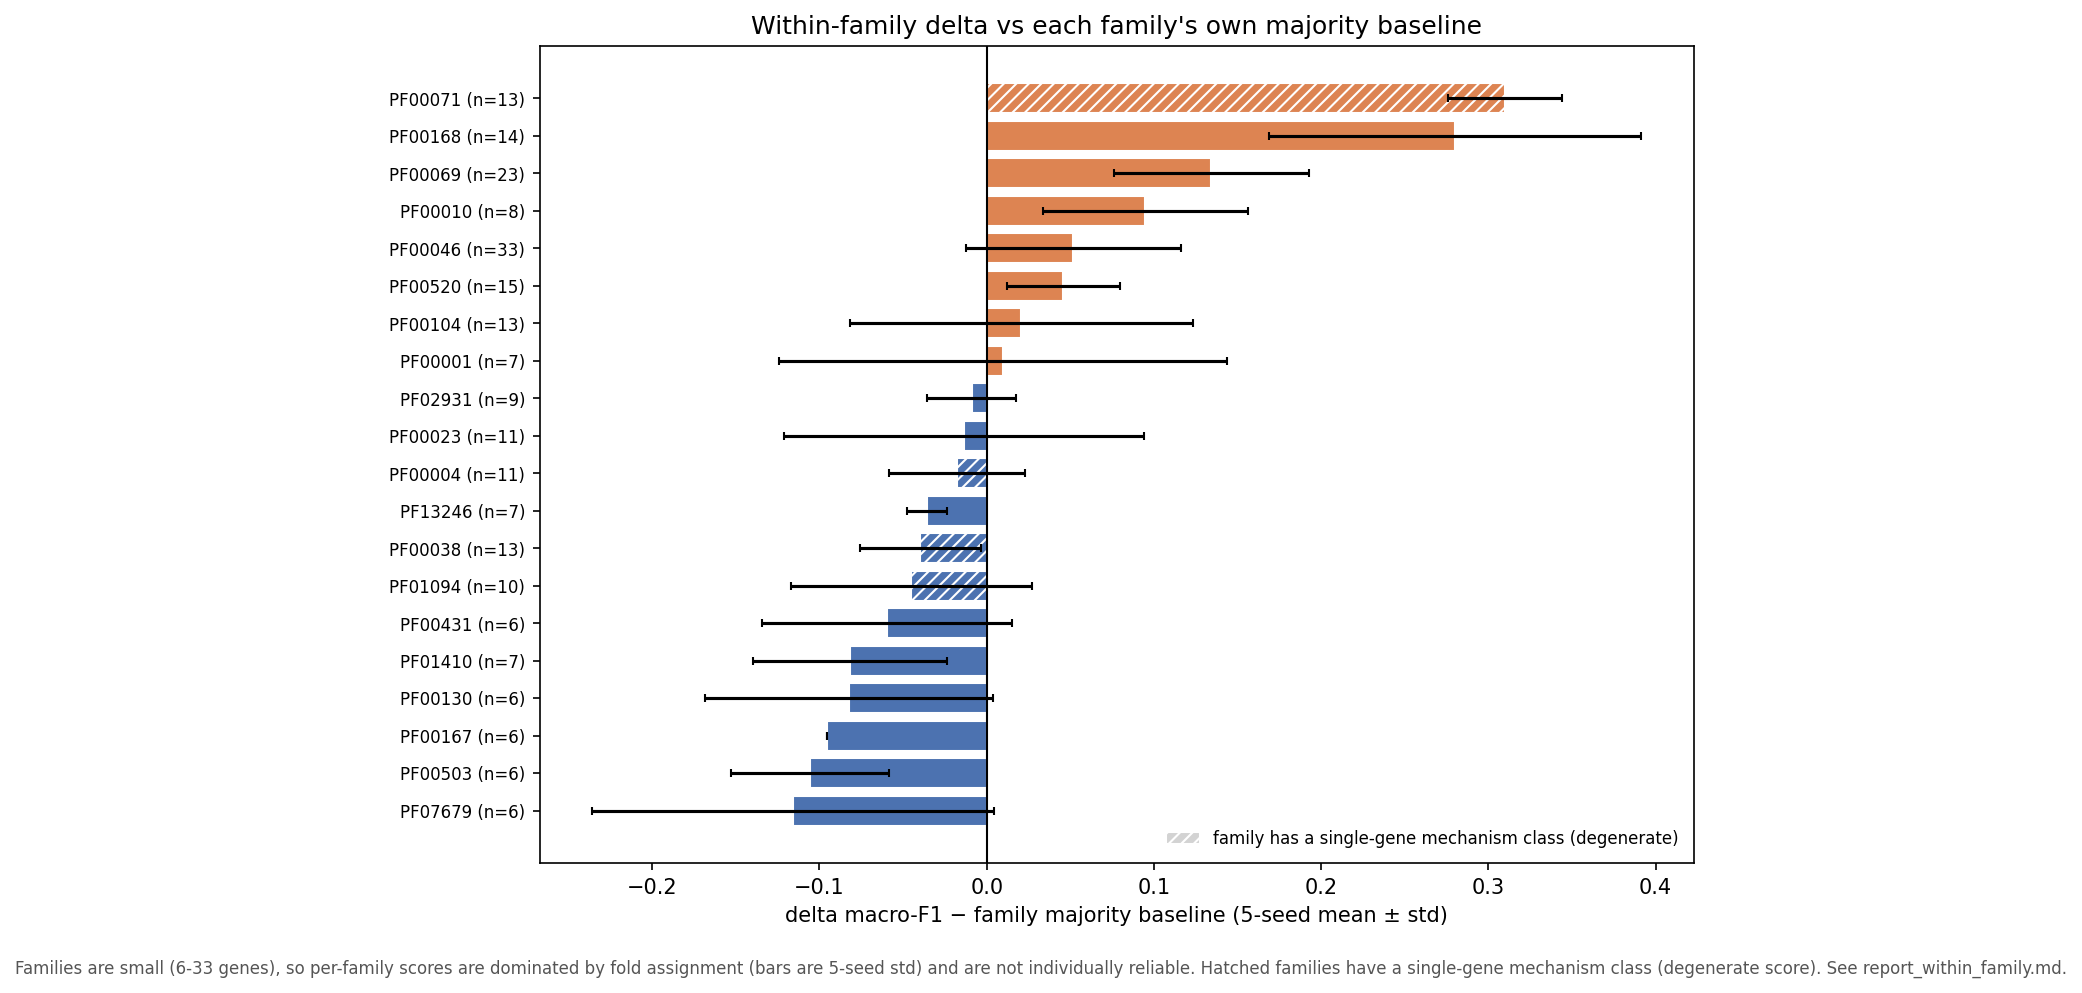
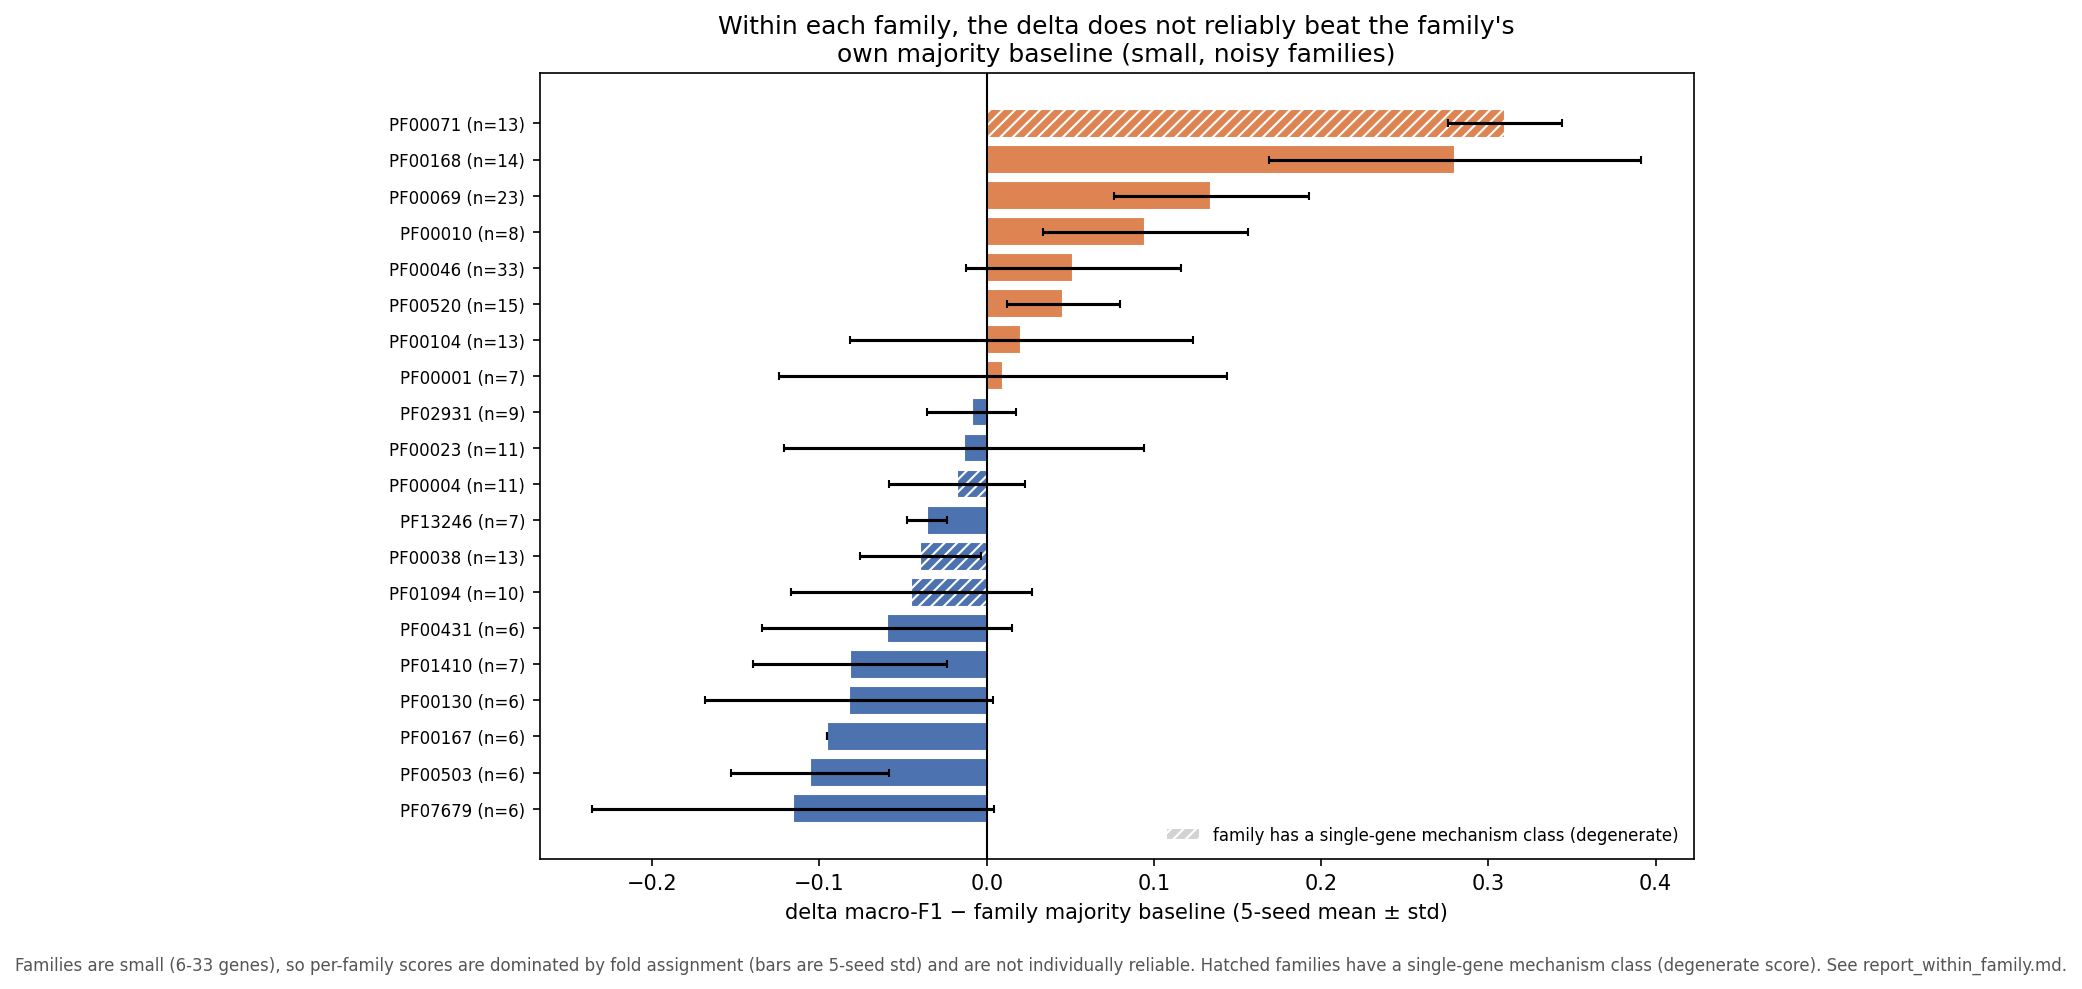
Commit all geometry/report working changes

diff --git a/src/esm2_mech/experiments/mechanism/make_figures.py b/src/esm2_mech/experiments/mechanism/make_figures.py
@@ -56,6 +56,25 @@ FAMILY_COLOR = "#DD8452"  # family-split
 # Per-class colours for the one-vs-rest AUROC figures.
 CLASS_COLORS = {"GOF": "#4C72B0", "DN": "#55A868", "LOF": "#C44E52"}
 
+# Feature groups and their colours, so bars are coloured by what kind of feature
+# they are (protein embedding / mutation-delta / non-ESM-2 baseline) rather than
+# all one colour.
+FEATURE_GROUPS = {
+    "wt_only_mean": "ESM-2 protein embedding",
+    "mut_only_mean": "ESM-2 protein embedding",
+    "wt_concat_mut": "ESM-2 protein embedding",
+    "delta_mean": "ESM-2 delta (mutation)",
+    "delta_per_residue": "ESM-2 delta (mutation)",
+    "onehot_aa": "non-ESM-2 baseline",
+    "foldx_ddg": "non-ESM-2 baseline",
+    "alphamissense": "non-ESM-2 baseline",
+}
+GROUP_COLORS = {
+    "ESM-2 protein embedding": "#4C72B0",  # blue
+    "ESM-2 delta (mutation)": "#55A868",   # green
+    "non-ESM-2 baseline": "#8172B3",       # purple
+}
+
 # Mechanism features in the order they should appear, with display labels.
 MECH_FEATURES = [
     ("wt_concat_mut", "wt_concat_mut"),
@@ -140,7 +159,9 @@ def fig_dissociation():
     ]
     fig.legend(handles, ["Gene-split", "Family-split"], loc="upper center",
                ncol=2, frameon=False, bbox_to_anchor=(0.5, 1.02))
-    fig.suptitle("Same ESM-2 delta: predicts whether, not how", y=1.08, fontsize=12)
+    fig.suptitle("Same ESM-2 delta embedding: predicts whether a mutation is harmful "
+                 "(AUROC ~0.90), not how it acts (macro-F1 at chance)",
+                 y=1.08, fontsize=11)
     fig.tight_layout()
     _save(fig, "fig1_dissociation.png")
 
@@ -179,7 +200,8 @@ def fig_family_split():
 
     ax.set_ylim(0.0, 0.75)
     ax.set_ylabel("Mechanism macro-F1")
-    ax.set_title("Gene-split vs family-split: the drop is family recognition")
+    ax.set_title("Holding out whole families removes ~0.10 macro-F1 from the protein\n"
+                 "embeddings — that drop is family recognition, not mechanism")
     # Legend from the two bar series only (labels set in _grouped_split_bars);
     # the chance line is left unlabelled so it never enters the legend.
     ax.legend(frameon=False)
@@ -193,24 +215,32 @@ def fig_probe_ranking():
     mech = _load_json(MECHANISM_AGGREGATE_JSON)["across_seed"]["gene_split"]
     mech_chance = _mechanism_chance()
 
-    rows = [(lab, mech[key]["macro_f1_seed_mean"], mech[key]["macro_f1_seed_std"])
+    rows = [(key, lab, mech[key]["macro_f1_seed_mean"], mech[key]["macro_f1_seed_std"])
             for key, lab in MECH_FEATURES]
-    rows.sort(key=lambda r: r[1])  # ascending so the best is at the top
-    labels = [r[0] for r in rows]
-    vals = [r[1] for r in rows]
-    errs = [r[2] for r in rows]
+    rows.sort(key=lambda r: r[2])  # ascending so the best is at the top
+    keys = [r[0] for r in rows]
+    labels = [r[1] for r in rows]
+    vals = [r[2] for r in rows]
+    errs = [r[3] for r in rows]
+    colors = [GROUP_COLORS[FEATURE_GROUPS[key]] for key in keys]
 
     fig, ax = plt.subplots(figsize=(9, 5))
     y = np.arange(len(labels))
-    ax.barh(y, vals, xerr=errs, color=GENE_COLOR, capsize=3)
+    ax.barh(y, vals, xerr=errs, color=colors, capsize=3)
     ax.axvline(mech_chance, ls="--", c="grey", lw=1)
-    ax.text(mech_chance + 0.005, -0.45, f"chance {mech_chance:.2f}",
+    ax.text(mech_chance + 0.005, -0.45, f"chance floor {mech_chance:.2f}",
             ha="left", va="center", fontsize=8, color="grey")
     ax.set_yticks(y)
     ax.set_yticklabels(labels)
     ax.set_xlim(0.0, 0.75)
     ax.set_xlabel("Gene-split mechanism macro-F1 (5-seed mean ± std)")
-    ax.set_title("Most features sit on the chance floor")
+    ax.set_title("Only the ESM-2 protein embeddings beat the chance floor;\n"
+                 "the mutation delta and external baselines sit on it")
+    # Legend for the feature-group colours.
+    handles = [plt.Rectangle((0, 0), 1, 1, color=color)
+               for color in GROUP_COLORS.values()]
+    ax.legend(handles, list(GROUP_COLORS.keys()), frameon=False, loc="lower right",
+              fontsize=8)
     fig.tight_layout()
     _save(fig, "fig3_probe_ranking.png")
 
@@ -257,7 +287,8 @@ def fig_within_family():
     ax.set_yticks(y)
     ax.set_yticklabels(labels, fontsize=8)
     ax.set_xlabel("delta macro-F1 − family majority baseline (5-seed mean ± std)")
-    ax.set_title("Within-family delta vs each family's own majority baseline")
+    ax.set_title("Within each family, the delta does not reliably beat the family's\n"
+                 "own majority baseline (small, noisy families)")
     # Legend marker for the degenerate (singleton-class) families.
     hatched = plt.Rectangle((0, 0), 1, 1, facecolor="lightgrey",
                             hatch="////", edgecolor="white")
@@ -316,8 +347,9 @@ def fig_family_clustering():
     ax_probe.set_ylabel("Family-probe accuracy")
     ax_probe.set_title("Can a probe name the family from the embedding?")
 
-    fig.suptitle("ESM-2 clusters by family; subtracting the wildtype removes it",
-                 y=1.02, fontsize=12)
+    fig.suptitle("ESM-2 embeddings cluster strongly by protein family; subtracting the\n"
+                 "wildtype (the delta) drops both metrics to their chance reference",
+                 y=1.05, fontsize=11)
     fig.tight_layout()
     _save(fig, "fig5_family_clustering.png")
 
@@ -356,8 +388,8 @@ def fig_auroc_split_bars():
         ax.set_title(title)
     axes[0].set_ylabel("One-vs-rest AUROC")
     axes[0].legend(frameon=False)
-    fig.suptitle("Per-class AUROC drops when whole families are held out", y=1.02,
-                 fontsize=12)
+    fig.suptitle("wt_only AUROC falls on every class under family-split; the delta\n"
+                 "stays near chance (0.50) on both splits", y=1.05, fontsize=11)
     fig.tight_layout()
     _save(fig, "fig6_auroc_split_bars.png")
 
@@ -410,7 +442,8 @@ def fig_auroc_split_slope():
     ax.set_xlim(-0.45, 1.55)
     ax.set_ylim(0.45, 0.9)
     ax.set_ylabel("One-vs-rest AUROC")
-    ax.set_title("The clean change: gene-split → family-split")
+    ax.set_title("Mechanism AUROC, gene-split → family-split:\n"
+                 "wt_only is high and drops; the delta sits near chance")
     fig.tight_layout()
     _save(fig, "fig7_auroc_split_slope.png")
 

diff --git a/reports/run6/report_classifier.md b/reports/run6/report_classifier.md
@@ -141,6 +141,14 @@ majority-class value is reported here as the stricter reference.)
 
 *Gene-split (blue) versus family-split (orange) macro-F1 per feature. The annotated drop on the three absolute-embedding features is the part of the gene-split score attributable to family recognition; the floor-level features have no above-chance signal to lose.*
 
+![Per-class one-vs-rest AUROC for wt_only and delta_mean, gene-split versus family-split. The wildtype embedding scores well above chance on every class and loses some of that under family-split; the delta sits near chance on both splits.](figures/fig6_auroc_split_bars.png)
+
+*One-vs-rest AUROC per mechanism class (5-seed mean ± std). Left: `wt_only` is above the 0.50 chance line for GOF, DN, and LOF, and every class falls under family-split. Right: `delta_mean` sits near chance on both splits. This is the per-class view behind the macro-F1 figures above.*
+
+![Mechanism AUROC slopegraph from gene-split to family-split for each class, wt_only (solid) and delta_mean (dashed). The wildtype lines start high and drop; the delta lines sit near chance and barely move.](figures/fig7_auroc_split_slope.png)
+
+*The same per-class AUROC as a slopegraph: each line connects a class's gene-split score (left) to its family-split score (right). For `wt_only` (solid) every class falls when whole families are held out — the size of the drop is the family-recognition component. For `delta_mean` (dashed) the lines sit just above the 0.50 chance reference and barely move.*
+
 ---
 
 ## Reading the tables
